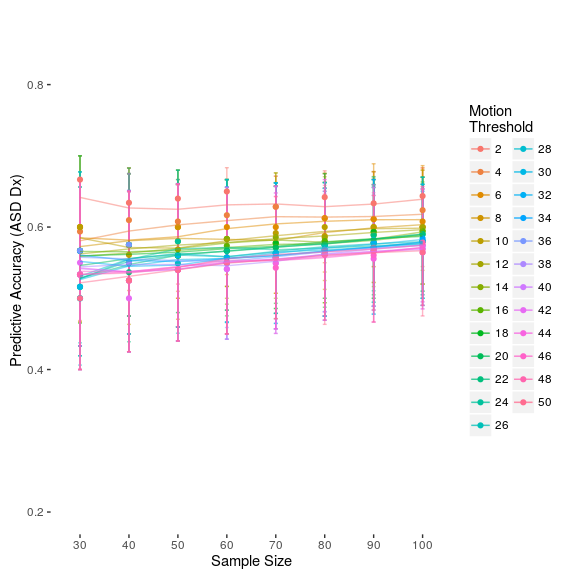
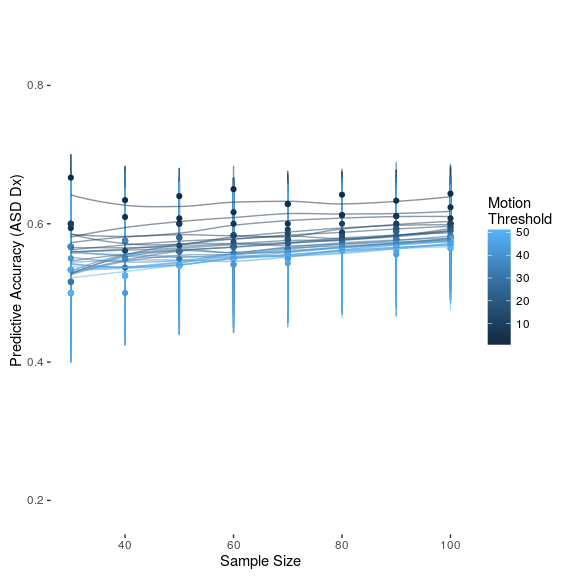
updated with null prediction line

diff --git a/Motion/plot_svc_motion_comparison.md b/Motion/plot_svc_motion_comparison.md
@@ -3,42 +3,52 @@
     library(tidyr)
     library(ggplot2)
 
-    #Remember to extract the files from TestAcc.tar.gz first
-    cvFiles <- dir('./cv_output/sss_svc_run2', pattern='*_TestAcc.csv', full.names = TRUE) 
-    lst <- lapply(cvFiles, fread)
-    cvData <- rbindlist(lst)
-    cvData[,'file'] <- cvFiles
-    cvData <- cvData[, c('cvMethod', 'classifier', 'mt', 'n', 'i'):=tstrsplit(tstrsplit(file, '/')[[4]], '_(mt|n|i)*')]
+    testAccDataFile <- './cv_output/sss_svc_run2/TestAcc.csv'
 
-    ## Warning in `[.data.table`(cvData, , `:=`(c("cvMethod", "classifier",
-    ## "mt", : Supplied 5 columns to be assigned a list (length 6) of values (1
-    ## unused)
+    if(!file.exists(testAccDataFile)){
+        #Remember to extract the files from TestAcc.tar.gz first
+        cvFiles <- dir('./cv_output/sss_svc_run2/TestAccData', pattern='*_TestAcc.csv', full.names = TRUE) 
+        lst <- lapply(cvFiles, fread)
+        cvData <- rbindlist(lst)
+        cvData[,'file'] <- cvFiles
+        cvData <- cvData[, c('cvMethod', 'classifier', 'mt', 'n', 'i'):=tstrsplit(tstrsplit(file, '/')[[5]], '_(mt|n|i)*')]
+        freqFiles <- dir('./cv_output/sss_svc_run2/TestLabelFreqData', pattern='*_TestLabelFreq.csv', full.names = TRUE) 
+        flst <- lapply(freqFiles, fread, skip=1)
+        freqData <- rbindlist(flst)
+        freqData[,'file'] <- freqFiles
+        freqData <- freqData[, c('cvMethod', 'classifier', 'mt', 'n', 'i'):=tstrsplit(tstrsplit(file, '/')[[5]], '_(mt|n|i)*')]
+        setnames(freqData, c('V1', 'V2'), c('N_DX_1', 'N_DX_2'))
+        setnames(cvData, 'V1', 'TestAcc')
+        setkey(cvData, mt, n, i) 
+        setkey(freqData, mt, n, i) 
+        cvData.final <- cvData[freqData[, c('file', 'cvMethod', 'classifier'):=NULL]]
+        cvData.final[, prop2 := (N_DX_2/(N_DX_1+N_DX_2))]  
+        cvData.final <- cvData.final[, mt:=factor(mt, levels=seq(2, 50, 2))]
+        cvData.final <- cvData.final[, n:=factor(n, levels=seq(30, 100, 10))]
+        fwrite(cvData.final, testAccDataFile)
+    } else {
+        cvData.final <- fread(testAccDataFile)
+    }
 
-    setnames(cvData, 'V1', 'TestAcc')
+    summaryCV <- cvData.final[, c(as.list(quantile(TestAcc, probs=c(.05, .5, .95))), 
+                      prop2.m=mean(prop2)), keyby=c('mt', 'n')]
 
-    cvData <- cvData[, mt:=factor(mt, levels=seq(2, 50, 2))]
-    cvData <- cvData[, n:=factor(n, levels=seq(30, 100, 10))]
+    N_labels <- paste0('N = ', unique(cvData.final$n))
+    names(N_labels) <- unique(cvData.final$n)
 
-    summaryCV <- cvData[, as.list(quantile(TestAcc, probs=c(.05, .5, .95))), keyby=c('mt', 'n')]
-
-    N_labels <- paste0('N = ', levels(cvData$n))
-    names(N_labels) <- levels(cvData$n)
-
-    ggplot(cvData, aes(x=mt, y=TestAcc))+
-        geom_point(alpha=.01, position=position_jitter(w=.2, h=.1))+
-        geom_line(aes(group=n), stat='smooth', method='loess', 
-              position=position_dodge(w=1))+
-        geom_point(data=summaryCV, aes(x=mt, y=`50%`),
-               position=position_dodge(w=1))+
-        geom_errorbar(data=summaryCV, aes(x=mt, y=NULL, ymin=`5%`, ymax=`95%`),
-               position=position_dodge(w=1), width=0)+
+    ggplot(summaryCV, aes(x=as.numeric(mt), y=`50%`))+
+        geom_line()+
+        geom_line(aes(x=as.numeric(mt), y=`prop2.m`),
+              color='red')+
+        geom_point(aes(x=as.numeric(mt), y=`50%`))+
+        geom_errorbar(aes(x=as.numeric(mt), y=NULL, ymin=`5%`, ymax=`95%`), width=0)+
         facet_wrap(~n, nrow=2, labeller=labeller(n=N_labels))+
         theme(panel.background=element_rect(fill='white'))+
         labs(x='Motion Threshold', y='Predictive Accuracy (ASD Dx)')
 
 ![](plot_svc_motion_comparison_files/figure-markdown_strict/unnamed-chunk-2-1.png)<!-- -->
 
-    ggplot(cvData, aes(x=n, y=TestAcc, group=mt, color=mt))+
+    ggplot(cvData.final, aes(x=n, y=TestAcc, group=mt, color=mt))+
         geom_point(alpha=.0, position=position_jitter(width=.5, height=.1))+
         geom_errorbar(data=summaryCV, aes(x=n, y=NULL, ymin=`5%`, ymax=`95%`),
                width=2, alpha=.5, position=position_dodge(w=0))+
@@ -48,6 +58,17 @@
         labs(x='Sample Size', y='Predictive Accuracy (ASD Dx)',
              color='Motion\nThreshold')
 
-    ## Warning: position_dodge requires non-overlapping x intervals
-
 ![](plot_svc_motion_comparison_files/figure-markdown_strict/unnamed-chunk-3-1.png)<!-- -->
+
+    ggplot(summaryCV, aes(x=as.numeric(n), y=`50%`))+
+        geom_line()+
+        geom_line(aes(x=as.numeric(n), y=`prop2.m`),
+              color='red')+
+        geom_point(aes(x=as.numeric(n), y=`50%`))+
+        geom_errorbar(aes(x=as.numeric(n), y=NULL, ymin=`5%`, ymax=`95%`), width=0)+
+        facet_wrap(~mt, nrow=5)+
+        theme(panel.background=element_rect(fill='white'))+
+        labs(x='Sample Size', y='Predictive Accuracy (ASD Dx)',
+             color='Motion\nThreshold')
+
+![](plot_svc_motion_comparison_files/figure-markdown_strict/unnamed-chunk-4-1.png)<!-- -->
